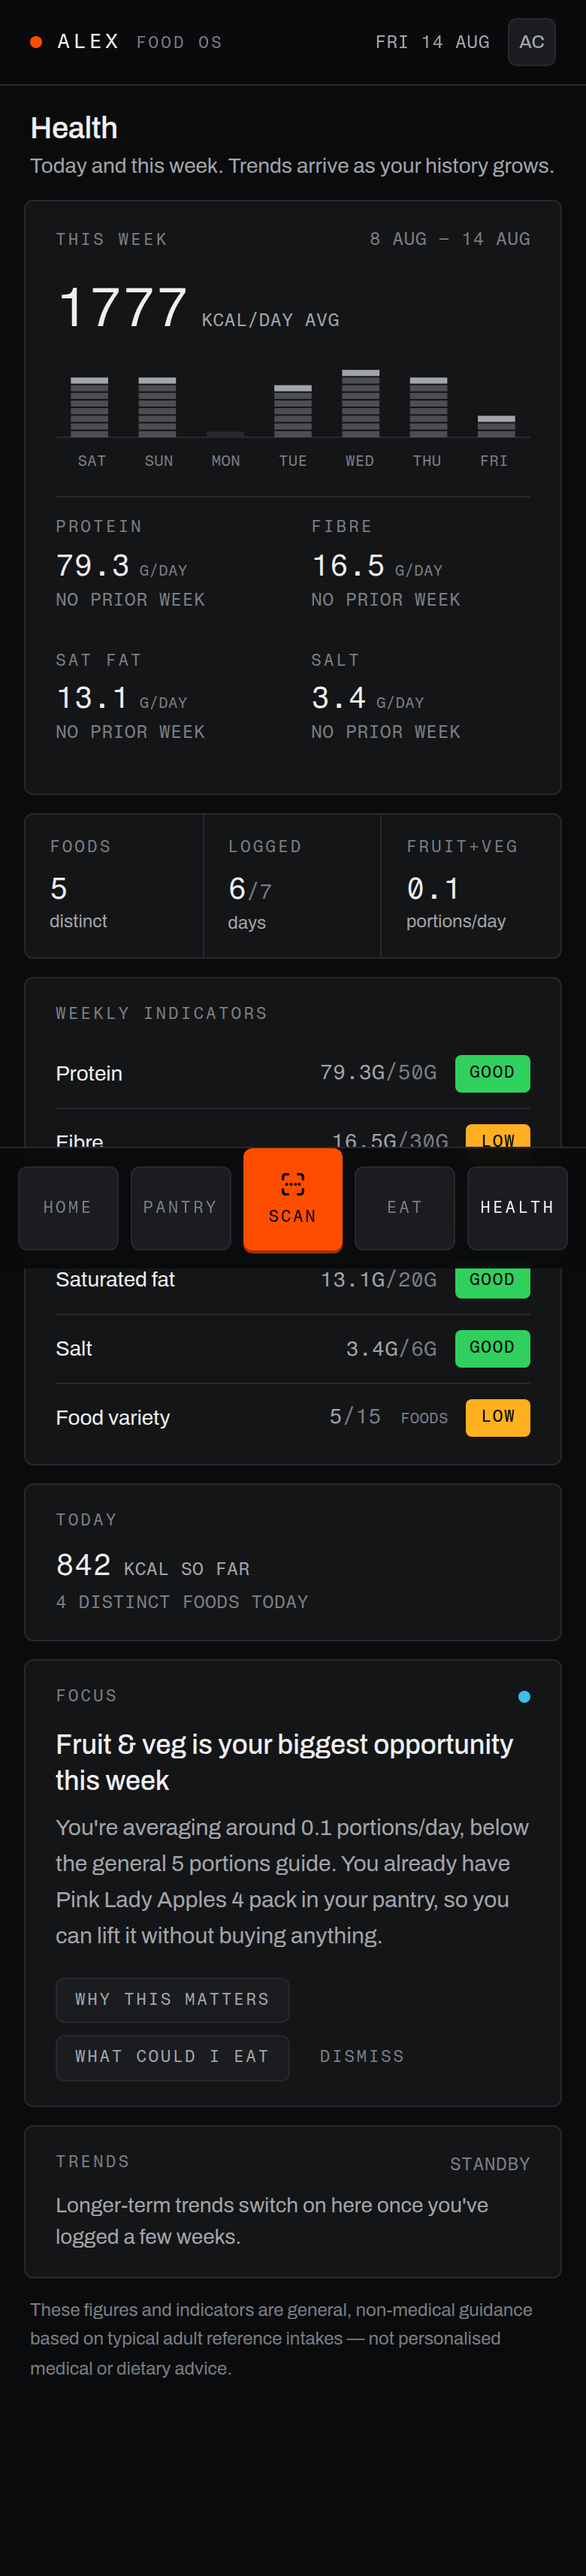
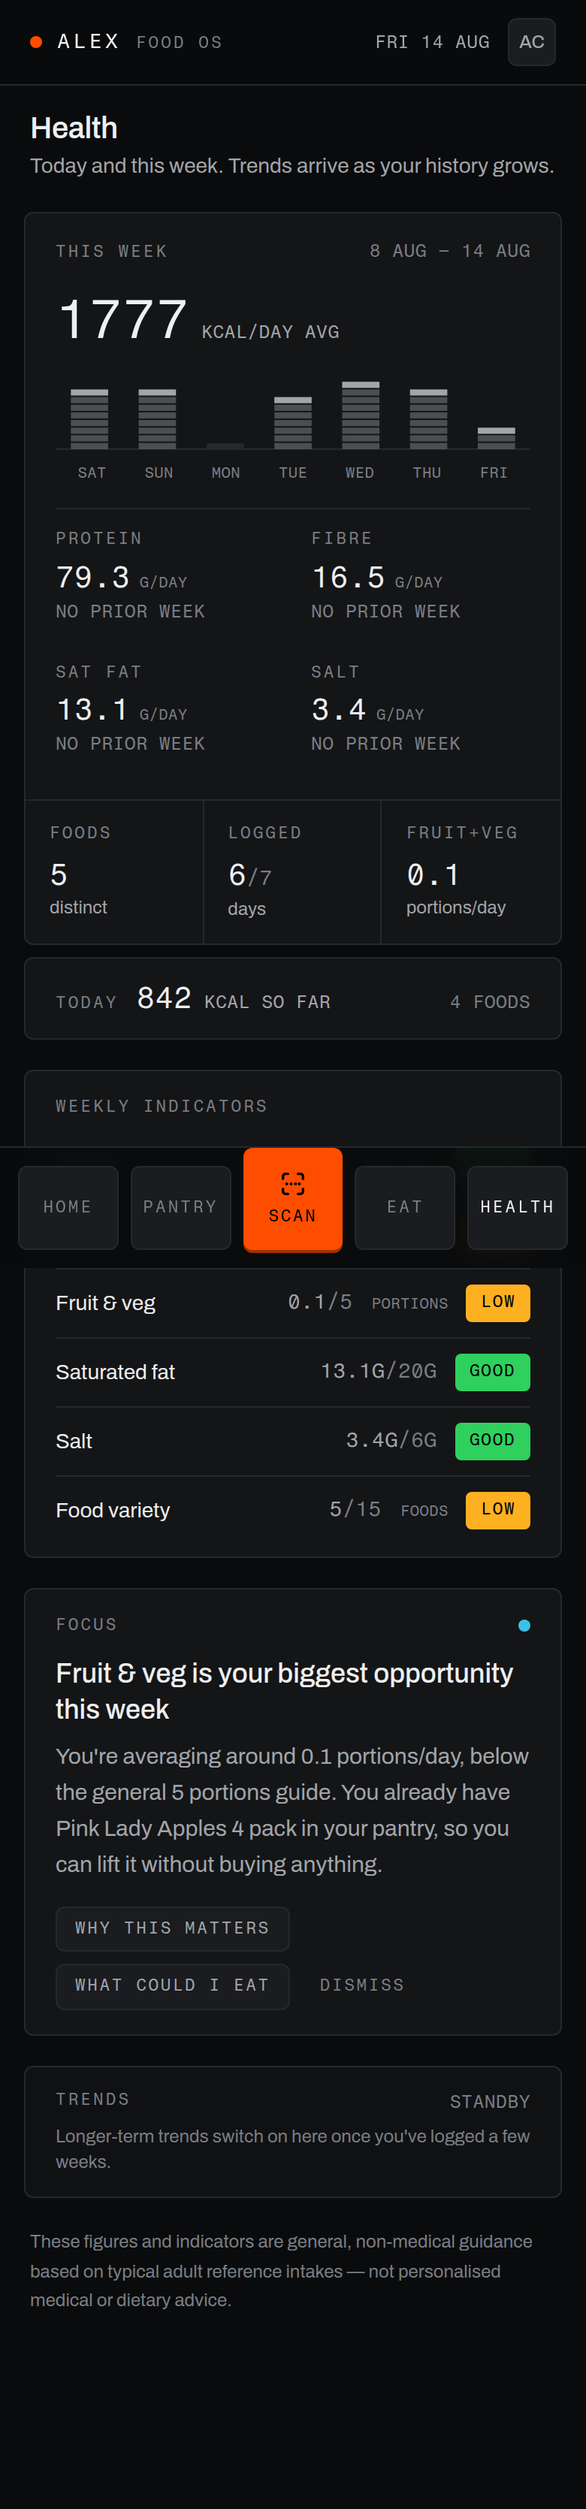
Layout pass: instrument faceplates, band rhythm, recessed bays
Replaces the uniform card stack (every module an equal plate at a
constant 12px gap) with instrument-face composition:

- Faceplate Rule: readings of one instrument fuse onto one plate,
  seam-divided edge-to-edge — Home's TODAY cluster absorbs the macro
  row and provenance footer; Health's THIS WEEK absorbs the weekly
  counters, with the TODAY echo tight-paired as a one-line strip.
- Band Rhythm: pages stack MEASURE > ASSESS > MOTIVATE/GUIDE on a
  two-step cadence (8px pairs within a band, 20px between bands);
  Home pairs streak+focus, item detail pairs identity+nutrition.
- Recessed Bay: Health's standby TRENDS drops its plate for a
  recessed well.
- Panel printing: the sparse scan capture face gains its silkscreened
  process row (01 scan / 02 confirm / 03 stocked) and capability line.
- Eat gains recency emphasis: today's total in ink, past days faint.

DESIGN.md records the three new named rules. Tests green (215),
layout-scope detector clean.

Claude-Session: https://claude.ai/code/session_01CB7PFqzZhRNtJCWK1jVMjS

diff --git a/resources/views/livewire/health.blade.php b/resources/views/livewire/health.blade.php
@@ -30,7 +30,7 @@ new #[Layout('components.layouts.app', ['title' => 'Health'])] class extends Com
     }
 }; ?>
 
-    <div class="space-y-3">
+    <div class="space-y-5">
         <div class="px-1">
             <h1 class="voice-title text-ink">Health</h1>
             <p class="voice-caption mt-0.5 text-ink-dim">Today and this week. Trends arrive as your history grows.</p>
@@ -90,54 +90,55 @@ new #[Layout('components.layouts.app', ['title' => 'Health'])] class extends Com
                         </div>
                     @endforeach
                 </div>
+                {{-- Weekly counters share the faceplate: one measurement cluster. --}}
+                <div class="-mx-5 -mb-5 mt-4 grid grid-cols-3 divide-x divide-seam border-t border-seam" aria-label="Weekly counters">
+                    <div class="px-4 py-3.5">
+                        <h3 class="silkscreen">Foods</h3>
+                        <p class="data-lg mt-1.5 text-ink">{{ $week['food_variety'] }}</p>
+                        <p class="voice-micro mt-0.5 text-ink-dim">distinct</p>
+                    </div>
+                    <div class="px-4 py-3.5">
+                        <h3 class="silkscreen">Logged</h3>
+                        <p class="data-lg mt-1.5 text-ink">{{ $week['meal_regularity']['days_logged'] }}<span class="data-md text-ink-faint">/{{ $week['meal_regularity']['days'] }}</span></p>
+                        <p class="voice-micro mt-0.5 text-ink-dim">days</p>
+                    </div>
+                    <div class="px-4 py-3.5">
+                        <h3 class="silkscreen">Fruit+Veg</h3>
+                        <p class="data-lg mt-1.5 text-ink">
+                            {{ $week['fruit_veg']['known'] ? rtrim(rtrim(number_format((float) $week['fruit_veg']['portions_per_day'], 1), '0'), '.') : '----' }}
+                        </p>
+                        <p class="voice-micro mt-0.5 text-ink-dim">portions/day</p>
+                    </div>
+                </div>
             </section>
 
-            {{-- Variety / regularity / fruit & veg counters. --}}
-            <section class="module grid grid-cols-3 divide-x divide-seam" aria-label="Weekly counters">
-                <div class="px-4 py-3.5">
-                    <h3 class="silkscreen">Foods</h3>
-                    <p class="data-lg mt-1.5 text-ink">{{ $week['food_variety'] }}</p>
-                    <p class="voice-micro mt-0.5 text-ink-dim">distinct</p>
-                </div>
-                <div class="px-4 py-3.5">
-                    <h3 class="silkscreen">Logged</h3>
-                    <p class="data-lg mt-1.5 text-ink">{{ $week['meal_regularity']['days_logged'] }}<span class="data-md text-ink-faint">/{{ $week['meal_regularity']['days'] }}</span></p>
-                    <p class="voice-micro mt-0.5 text-ink-dim">days</p>
-                </div>
-                <div class="px-4 py-3.5">
-                    <h3 class="silkscreen">Fruit+Veg</h3>
-                    <p class="data-lg mt-1.5 text-ink">
-                        {{ $week['fruit_veg']['known'] ? rtrim(rtrim(number_format((float) $week['fruit_veg']['portions_per_day'], 1), '0'), '.') : '----' }}
-                    </p>
-                    <p class="voice-micro mt-0.5 text-ink-dim">portions/day</p>
-                </div>
-            </section>
-
-            {{-- Component indicators over the week (brief §9.5). --}}
-            <x-app.indicators :indicators="$week['indicators']" label="Weekly indicators" />
-
-            {{-- TODAY mini-view (brief §9.2/§9.3). --}}
+            {{-- TODAY echo pairs tight with the week cluster: both are measurements. --}}
             @if ($today['has_data'])
-                <section class="module px-5 pb-4 pt-4">
-                    <h2 class="silkscreen">Today</h2>
-                    <p class="mt-2 flex items-baseline gap-2">
-                        <span class="data-lg text-ink">{{ $today['totals']['calories'] === null ? '----' : number_format((float) $today['totals']['calories'], 0, '', '') }}</span>
-                        <span class="data-sm text-ink-dim uppercase">KCAL so far</span>
-                    </p>
-                    <p class="data-sm mt-1 text-ink-faint uppercase">{{ $today['food_variety'] }} distinct {{ $today['food_variety'] === 1 ? 'food' : 'foods' }} today</p>
+                <section class="module -mt-3 flex items-baseline justify-between px-5 py-3.5">
+                    <div class="flex items-baseline gap-3">
+                        <h2 class="silkscreen">Today</h2>
+                        <p class="flex items-baseline gap-2">
+                            <span class="data-lg text-ink">{{ $today['totals']['calories'] === null ? '----' : number_format((float) $today['totals']['calories'], 0, '', '') }}</span>
+                            <span class="data-sm text-ink-dim uppercase">KCAL so far</span>
+                        </p>
+                    </div>
+                    <p class="data-sm text-ink-faint uppercase">{{ $today['food_variety'] }} {{ $today['food_variety'] === 1 ? 'food' : 'foods' }}</p>
                 </section>
             @endif
 
-            {{-- Your focus this week — prioritised, pantry-aware insight (brief §9.6). --}}
+            {{-- ASSESS — component indicators over the week (brief §9.5). --}}
+            <x-app.indicators :indicators="$week['indicators']" label="Weekly indicators" />
+
+            {{-- GUIDE — prioritised, pantry-aware insight (brief §9.6). --}}
             <livewire:insight-card />
 
-            {{-- Trends horizon — stub for MVP (brief §9.2: Today + Week suffice). --}}
-            <section class="module px-5 py-4">
+            {{-- Trends horizon: an unpowered bay, recessed, not a plate (§9.2). --}}
+            <section class="rounded-md border border-seam bg-plate-well px-5 py-3.5">
                 <div class="flex items-center justify-between">
                     <h2 class="silkscreen">Trends</h2>
                     <span class="data-sm text-ink-faint uppercase">Standby</span>
                 </div>
-                <p class="voice-caption mt-2 text-ink-dim">Longer-term trends switch on here once you've logged a few weeks.</p>
+                <p class="voice-micro mt-1.5 text-ink-faint">Longer-term trends switch on here once you've logged a few weeks.</p>
             </section>
 
             <x-app.health-disclaimer />

diff --git a/resources/views/livewire/home.blade.php b/resources/views/livewire/home.blade.php
@@ -29,7 +29,7 @@ new #[Layout('components.layouts.app', ['title' => 'Home'])] class extends Compo
     }
 }; ?>
 
-    <div class="space-y-3">
+    <div class="space-y-5">
 
         {{-- TODAY — the master readout (brief §9.3). Scale axis is the typical
              adult reference intake range; geometry only, no maths here. --}}
@@ -60,20 +60,9 @@ new #[Layout('components.layouts.app', ['title' => 'Home'])] class extends Compo
                 </div>
             </div>
 
+            {{-- Macro readings live on the same faceplate as the master gauge:
+                 one instrument cluster, seam-divided (comp A). --}}
             @if ($today['has_data'])
-                <p class="data-sm mt-4 border-t border-seam pt-3 text-ink-faint uppercase">
-                    {{ $today['food_variety'] }} {{ $today['food_variety'] === 1 ? 'food' : 'foods' }} logged{{ $lastLoggedAt ? ' · last '.\Illuminate\Support\Carbon::parse($lastLoggedAt)->format('H:i') : '' }}
-                </p>
-            @else
-                <p class="voice-body mt-4 border-t border-seam pt-3 text-ink-dim">
-                    Nothing logged yet — scan what you bought or log what you ate, and today's readout wakes up.
-                </p>
-            @endif
-        </section>
-
-        {{-- Macro tiles: bars show each macro's share of today's largest, a
-             relative composition reading, not a target. --}}
-        @if ($today['has_data'])
             @php($bandFill = [
                 \App\Services\NutritionAnalyticsService::BAND_GOOD => 'var(--color-good)',
                 \App\Services\NutritionAnalyticsService::BAND_OK => 'var(--color-good)',
@@ -90,46 +79,56 @@ new #[Layout('components.layouts.app', ['title' => 'Home'])] class extends Compo
                         : null,
                 ]))
             @php($macroMax = max(array_filter($macros->pluck('value')->all(), fn ($v) => $v !== null) ?: [0]))
-            <section class="module grid grid-cols-3 divide-x divide-seam" aria-label="Macronutrients today">
+            <div class="-mx-5 mt-5 grid grid-cols-3 divide-x divide-seam border-t border-seam" aria-label="Macronutrients today">
                 @foreach ($macros as $m)
                     <div class="px-4 py-3.5">
                         <h3 class="silkscreen">{{ $m['label'] }}</h3>
                         <p class="data-lg mt-1.5 text-ink">
-                            {{ $m['value'] === null ? '—' : rtrim(rtrim(number_format((float) $m['value'], 1), '0'), '.') }}<span class="text-xs text-ink-dim">g</span>
+                            {{ $m['value'] === null ? '—' : rtrim(rtrim(number_format((float) $m['value'], 1), '0'), '.') }}<span class="data-micro text-ink-dim">g</span>
                         </p>
                         <div class="meter mt-2.5">
                             <span style="width: {{ $m['value'] !== null && $macroMax > 0 ? round($m['value'] / $macroMax * 100) : 0 }}%; {{ $m['fill'] ? 'background:'.$m['fill'] : '' }}"></span>
                         </div>
                     </div>
                 @endforeach
-            </section>
-        @endif
-
-        {{-- STREAK — days logged across the rolling week, sequencer cells. --}}
-        <section class="module flex items-center justify-between px-5 py-3.5">
-            <div class="flex items-center gap-4">
-                <h2 class="silkscreen">Streak</h2>
-                <div class="flex gap-1.5" aria-hidden="true">
-                    @foreach ($streakDays as $day)
-                        <span class="led {{ $day['has_data'] ? 'led-on' : '' }}"></span>
-                    @endforeach
-                </div>
             </div>
-            <p class="data-md text-ink">
-                {{ str_pad((string) $daysLogged, 2, '0', STR_PAD_LEFT) }}<span class="text-ink-faint">/07</span>
-                <span class="data-sm ml-1 text-ink-dim uppercase">days</span>
+            <p class="data-sm -mx-5 border-t border-seam px-5 pt-3 text-ink-faint uppercase">
+                {{ $today['food_variety'] }} {{ $today['food_variety'] === 1 ? 'food' : 'foods' }} logged{{ $lastLoggedAt ? ' · last '.\Illuminate\Support\Carbon::parse($lastLoggedAt)->format('H:i') : '' }}
             </p>
+            @else
+                <p class="voice-body mt-4 border-t border-seam pt-3 text-ink-dim">
+                    Nothing logged yet — scan what you bought or log what you ate, and today's readout wakes up.
+                </p>
+            @endif
         </section>
 
-        {{-- Component indicators (brief §9.5): Good / OK / Low / Slightly high. --}}
+        {{-- ASSESS — component indicators (brief §9.5): qualitative bands. --}}
         @if ($today['has_data'])
             <section aria-label="How today looks">
                 <x-app.indicators :indicators="$today['indicators']" label="Indicators" />
             </section>
         @endif
 
-        {{-- Your focus this week — the top AI (or deterministic) insight (brief §9.6). --}}
-        <livewire:insight-card />
+        {{-- MOTIVATE + GUIDE — the streak strip and the focus printout pair. --}}
+        <div class="space-y-2">
+            <section class="module flex items-center justify-between px-5 py-3.5">
+                <div class="flex items-center gap-4">
+                    <h2 class="silkscreen">Streak</h2>
+                    <div class="flex gap-1.5" aria-hidden="true">
+                        @foreach ($streakDays as $day)
+                            <span class="led {{ $day['has_data'] ? 'led-on' : '' }}"></span>
+                        @endforeach
+                    </div>
+                </div>
+                <p class="data-md text-ink">
+                    {{ str_pad((string) $daysLogged, 2, '0', STR_PAD_LEFT) }}<span class="text-ink-faint">/07</span>
+                    <span class="data-sm ml-1 text-ink-dim uppercase">days</span>
+                </p>
+            </section>
+
+            {{-- Your focus this week — the top AI (or deterministic) insight (brief §9.6). --}}
+            <livewire:insight-card />
+        </div>
 
         @if ($today['has_data'])
             <x-app.health-disclaimer />

diff --git a/resources/views/livewire/scan.blade.php b/resources/views/livewire/scan.blade.php
@@ -352,7 +352,8 @@ new #[Layout('components.layouts.app', ['title' => 'Scan'])] class extends Compo
                      }">
 
                     {{-- The capture well: a viewfinder, not a form. --}}
-                    <label class="module block cursor-pointer px-5 pb-5 pt-4">
+                    <div class="module px-5 pb-0 pt-4">
+                    <label class="block cursor-pointer">
                         <span class="silkscreen">Scan</span>
                         <div class="relative mt-3 flex min-h-56 flex-col items-center justify-center overflow-hidden rounded-[5px] border border-seam bg-plate-well px-6 py-10 text-center transition hover:border-seam-strong">
                             {{-- Viewfinder corner brackets --}}
@@ -374,6 +375,27 @@ new #[Layout('components.layouts.app', ['title' => 'Scan'])] class extends Compo
                         <input type="file" accept="image/*" capture="environment" class="sr-only"
                                x-on:change="handle($event)">
                     </label>
+
+                    {{-- Panel printing: the process and the machinery, silkscreened
+                         onto the face (TE hardware prints its diagrams). --}}
+                    <div class="-mx-5 mt-4 grid grid-cols-3 divide-x divide-seam border-t border-seam" aria-hidden="true">
+                        <div class="px-4 py-3">
+                            <p class="silkscreen">01</p>
+                            <p class="voice-micro mt-0.5 text-ink-dim">Scan the pack</p>
+                        </div>
+                        <div class="px-4 py-3">
+                            <p class="silkscreen">02</p>
+                            <p class="voice-micro mt-0.5 text-ink-dim">Confirm the match</p>
+                        </div>
+                        <div class="px-4 py-3">
+                            <p class="silkscreen">03</p>
+                            <p class="voice-micro mt-0.5 text-ink-dim">Stocked &amp; counted</p>
+                        </div>
+                    </div>
+                    <p class="data-sm -mx-5 border-t border-seam px-5 py-3 text-ink-faint uppercase">
+                        On-device barcode reader · Open Food Facts DB
+                    </p>
+                    </div>
 
                     @error('photo') <p class="px-1 text-xs text-high">{{ $message }}</p> @enderror
 

diff --git a/resources/views/livewire/pantry-item.blade.php b/resources/views/livewire/pantry-item.blade.php
@@ -111,7 +111,7 @@ new #[Layout('components.layouts.app', ['title' => 'Item'])] class extends Compo
     }
 }; ?>
 
-    <div class="space-y-3" x-data="{ toast: false }"
+    <div class="space-y-5" x-data="{ toast: false }"
          x-on:item-changed.window="toast = true; setTimeout(() => toast = false, 2000)">
 
         <a href="{{ route('pantry') }}" class="keycap-sm inline-flex items-center gap-1.5 px-1 text-ink-dim transition hover:text-ink">
@@ -142,7 +142,7 @@ new #[Layout('components.layouts.app', ['title' => 'Item'])] class extends Compo
         </section>
 
         {{-- Nutrition (computed by NutritionCalculator for what's currently held) --}}
-        <section class="module px-5 pb-2 pt-4">
+        <section class="module -mt-3 px-5 pb-2 pt-4">
             <h2 class="silkscreen">Nutrition in what you have</h2>
             @if ($hasNutrition)
                 <div class="mt-2 grid grid-cols-2 gap-x-6">

diff --git a/resources/views/livewire/eat.blade.php b/resources/views/livewire/eat.blade.php
@@ -130,7 +130,7 @@ new #[Layout('components.layouts.app', ['title' => 'Eat'])] class extends Compon
                 <section class="module px-0 pb-1 pt-4">
                     <div class="flex items-baseline justify-between px-5">
                         <h2 class="silkscreen">{{ $group['label'] }}</h2>
-                        <span class="data-sm text-ink-dim">
+                        <span class="data-sm {{ $group['label'] === 'Today' ? 'text-ink' : 'text-ink-faint' }}">
                             {{ $group['calories'] === null ? '----' : number_format($group['calories']).' KCAL' }}
                         </span>
                     </div>
